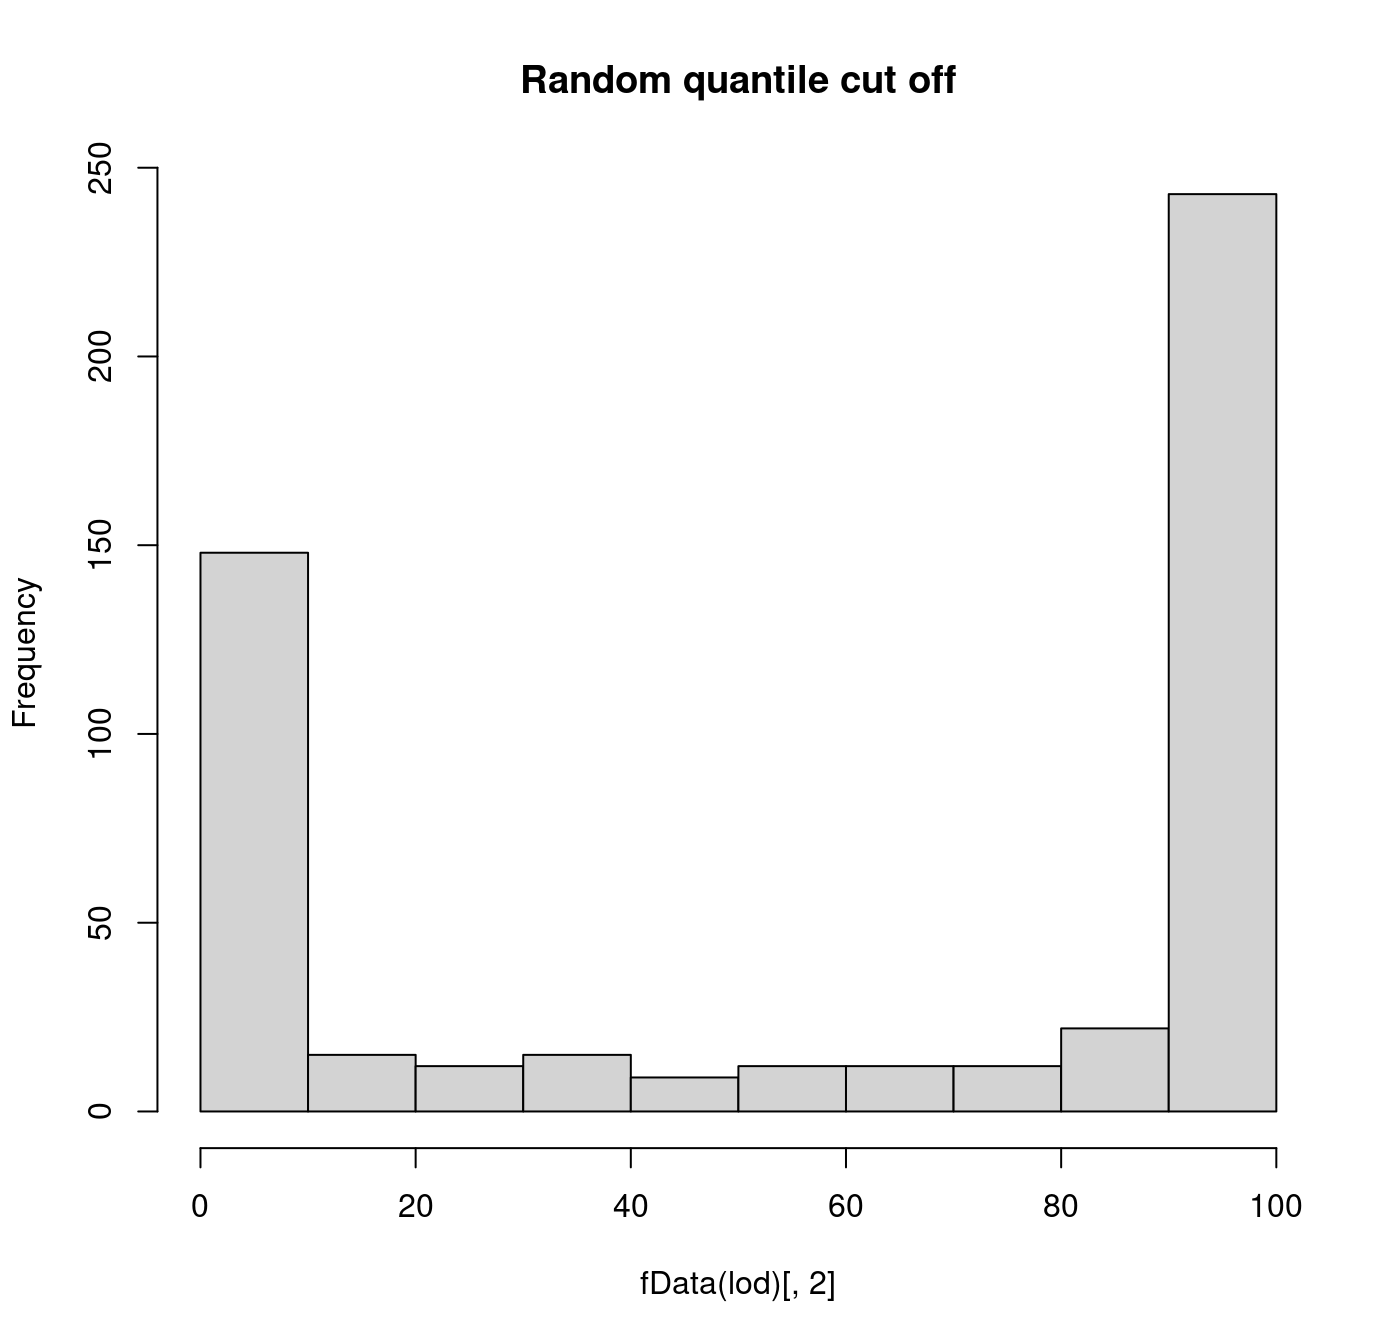
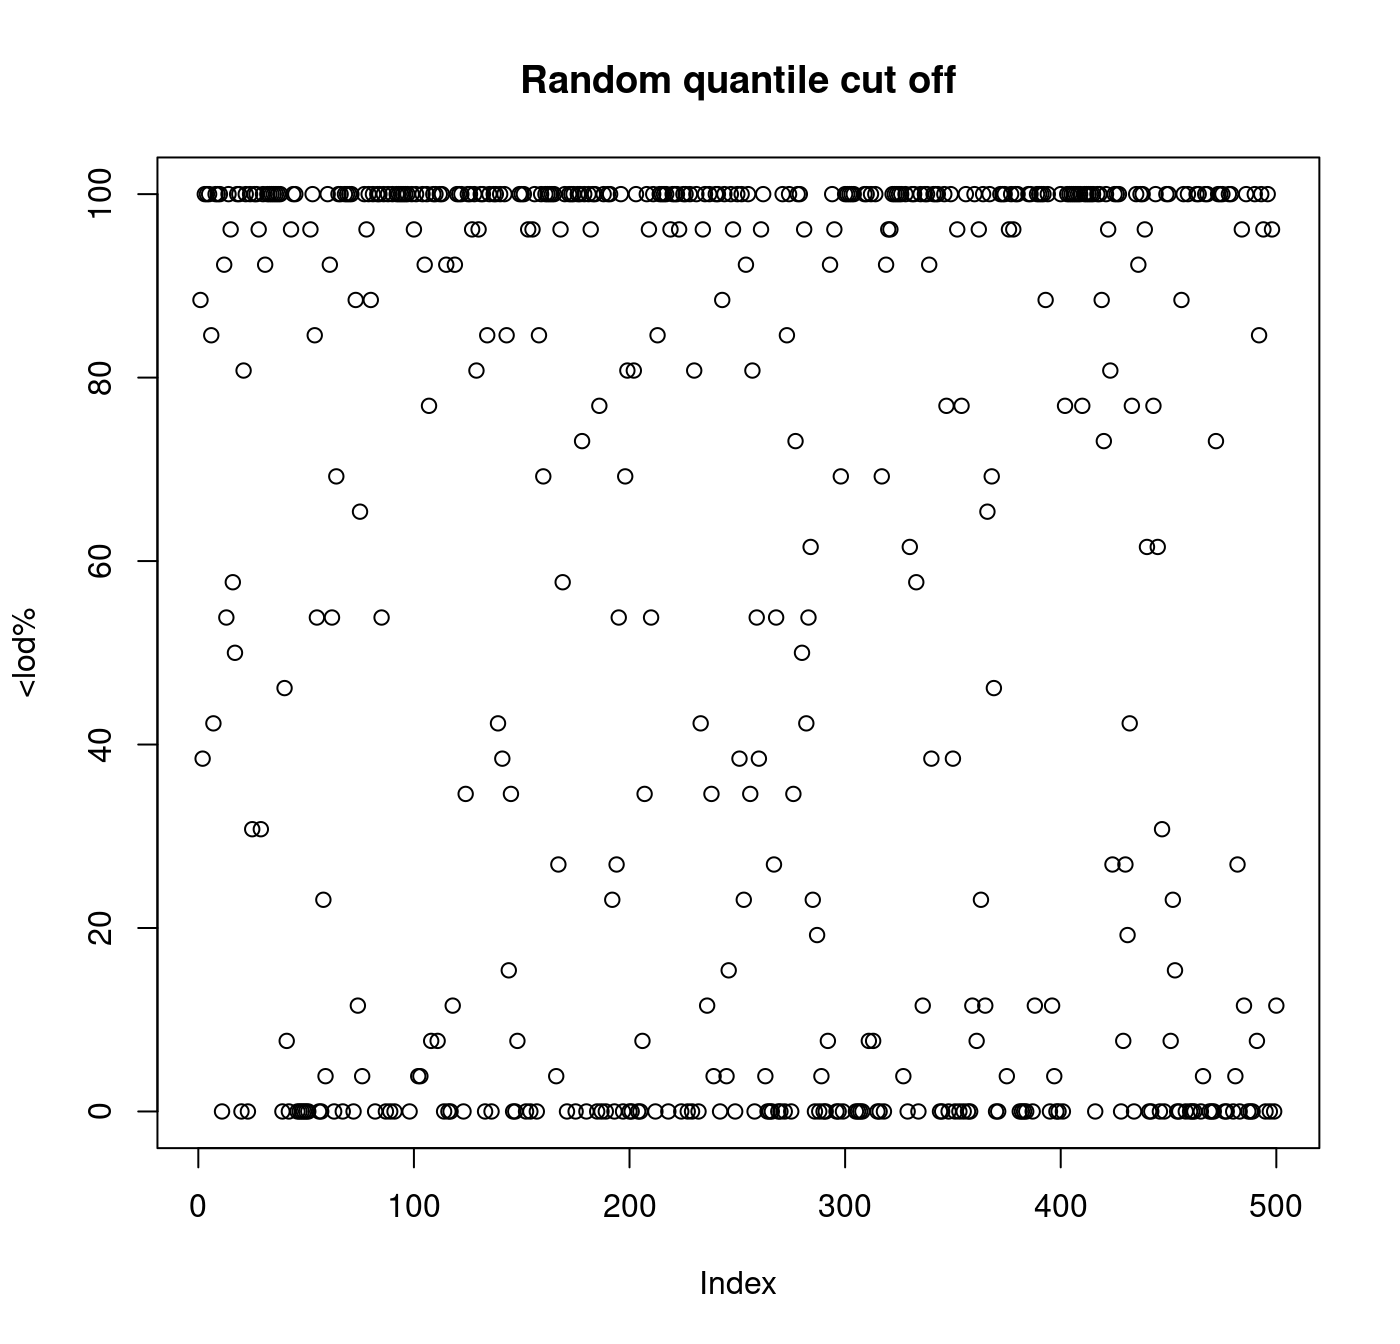
docs/

diff --git a/docs/articles/es.html b/docs/articles/es.html
@@ -181,11 +181,11 @@
 <a href="#limit-of-detection-lod" class="anchor"></a>Limit of detection (LOD)</h2>
 <p>We generate a <code>lod.max</code> ~ U[0,1] variable to experiment</p>
 <div class="sourceCode" id="cb6"><pre class="downlit sourceCode r">
-<code class="sourceCode R"><span class="fu"><a href="https://rdrr.io/pkg/Biobase/man/featureData.html">fData</a></span><span class="op">(</span><span class="va">exampleSet</span><span class="op">)</span>
+<code class="sourceCode R"><span class="kw"><a href="https://rdrr.io/r/base/library.html">library</a></span><span class="op">(</span><span class="va"><a href="http://stringr.tidyverse.org">stringr</a></span><span class="op">)</span>
+<span class="fu"><a href="https://rdrr.io/pkg/Biobase/man/featureData.html">fData</a></span><span class="op">(</span><span class="va">exampleSet</span><span class="op">)</span>
 <span class="co">#&gt; data frame with 0 columns and 500 rows</span>
 <span class="fu"><a href="https://rdrr.io/pkg/Biobase/man/featureData.html">fData</a></span><span class="op">(</span><span class="va">exampleSet</span><span class="op">)</span><span class="op">$</span><span class="va">lod.max</span> <span class="op">&lt;-</span> <span class="fu"><a href="https://rdrr.io/r/base/apply.html">apply</a></span><span class="op">(</span><span class="fu"><a href="https://rdrr.io/pkg/Biobase/man/exprs.html">exprs</a></span><span class="op">(</span><span class="va">exampleSet</span><span class="op">)</span>,<span class="fl">1</span>,<span class="va">quantile</span>,<span class="fu"><a href="https://rdrr.io/r/stats/Uniform.html">runif</a></span><span class="op">(</span><span class="fu"><a href="https://rdrr.io/r/base/nrow.html">nrow</a></span><span class="op">(</span><span class="va">exampleSet</span><span class="op">)</span><span class="op">)</span><span class="op">)</span>
 <span class="va">lod</span> <span class="op">&lt;-</span> <span class="fu"><a href="../reference/pQTLtools-internal.html">get.prop.below.LLOD</a></span><span class="op">(</span><span class="va">exampleSet</span><span class="op">)</span>
-<span class="co">#&gt; Loading required package: stringr</span>
 <span class="fu">knitr</span><span class="fu">::</span><span class="fu"><a href="https://rdrr.io/pkg/knitr/man/kable.html">kable</a></span><span class="op">(</span><span class="fu"><a href="https://rdrr.io/r/utils/head.html">head</a></span><span class="op">(</span><span class="va">lod</span><span class="op">)</span><span class="op">)</span></code></pre></div>
 <table class="table">
 <colgroup>
@@ -528,7 +528,7 @@
 </tbody>
 </table>
 <div class="sourceCode" id="cb7"><pre class="downlit sourceCode r">
-<code class="sourceCode R"><span class="fu"><a href="https://rdrr.io/r/graphics/hist.html">hist</a></span><span class="op">(</span><span class="fu"><a href="https://rdrr.io/pkg/Biobase/man/featureData.html">fData</a></span><span class="op">(</span><span class="va">lod</span><span class="op">)</span><span class="op">[</span>,<span class="fl">2</span><span class="op">]</span>, main<span class="op">=</span><span class="st">"Random quantile cut off"</span><span class="op">)</span></code></pre></div>
+<code class="sourceCode R"><span class="fu"><a href="https://rdrr.io/r/graphics/plot.default.html">plot</a></span><span class="op">(</span><span class="fu"><a href="https://rdrr.io/pkg/Biobase/man/featureData.html">fData</a></span><span class="op">(</span><span class="va">lod</span><span class="op">)</span><span class="op">[</span>,<span class="fl">2</span><span class="op">]</span>, main<span class="op">=</span><span class="st">"Random quantile cut off"</span>, ylab<span class="op">=</span><span class="st">"&lt;lod%"</span><span class="op">)</span></code></pre></div>
 <p><img src="es/test-1.png" width="700" style="display:block; margin: auto"></p>
 <p>The quantity has been shown to have a big impact on protein abundance and therefore pQTL detection as is shown with a real example.</p>
 <div class="sourceCode" id="cb8"><pre class="downlit sourceCode r">

diff --git a/docs/articles/pQTLtools.html b/docs/articles/pQTLtools.html
@@ -711,8 +711,8 @@
   <span class="kw">if</span> <span class="op">(</span><span class="fu"><a href="https://rdrr.io/r/base/exists.html">exists</a></span><span class="op">(</span><span class="st">"coloc_df_imported"</span><span class="op">)</span><span class="op">)</span>
   <span class="op">{</span>
     <span class="fu"><a href="https://rdrr.io/r/base/readRDS.html">saveRDS</a></span><span class="op">(</span><span class="va">coloc_df_imported</span>,file<span class="op">=</span><span class="fu"><a href="https://rdrr.io/r/base/paste.html">paste0</a></span><span class="op">(</span><span class="va">out</span>,<span class="st">".RDS"</span><span class="op">)</span><span class="op">)</span>
-    <span class="fu">dplyr</span><span class="fu">::</span><span class="fu"><a href="https://dplyr.tidyverse.org/reference/arrange.html">arrange</a></span><span class="op">(</span><span class="va">coloc_df_imported</span>, <span class="fu">desc</span><span class="op">(</span><span class="va">PP.H4.abf</span><span class="op">)</span><span class="op">)</span>
-    <span class="fu">ggplot</span><span class="op">(</span><span class="va">coloc_df_imported</span>, <span class="fu">aes</span><span class="op">(</span>x <span class="op">=</span> <span class="va">PP.H4.abf</span><span class="op">)</span><span class="op">)</span> <span class="op">+</span> <span class="fu">geom_histogram</span><span class="op">(</span><span class="op">)</span>
+<span class="co">#   dplyr::arrange(coloc_df_imported, desc(PP.H4.abf))</span>
+<span class="co">#   ggplot(coloc_df_imported, aes(x = PP.H4.abf)) + geom_histogram()</span>
   <span class="op">}</span>
 <span class="op">}</span>
 
@@ -738,9 +738,8 @@
   <span class="fu">mixed_coloc</span><span class="op">(</span><span class="va">sentinel</span><span class="op">[[</span><span class="st">"prot"</span><span class="op">]</span><span class="op">]</span>,<span class="va">chr</span>,<span class="va">ensGene</span>,<span class="va">chain</span>,<span class="va">region37</span>,<span class="va">region38</span>,<span class="va">f</span><span class="op">)</span>
 <span class="op">}</span>
 
-<span class="fu">single_run</span><span class="op">(</span><span class="fl">1</span><span class="op">)</span>
-<span class="co">#&gt; `stat_bin()` using `bins = 30`. Pick better value with `binwidth`.</span></code></pre></div>
-<p><img src="pQTLtools/unnamed-chunk-3-1.png" width="700" style="display:block; margin: auto"> The output are saved in the <code>.RDS</code> files.</p>
+<span class="fu">single_run</span><span class="op">(</span><span class="fl">1</span><span class="op">)</span></code></pre></div>
+<p>The output are saved in the <code>.RDS</code> files.</p>
 </div>
 <div id="pqtl-based-mendelian-randomization-mr" class="section level2">
 <h2 class="hasAnchor">
